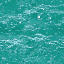
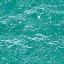
Added flipbooks for water in MH

diff --git a/levels/mh/flipbook.inc.c b/levels/mh/flipbook.inc.c
@@ -1,0 +1,55 @@
+#include "flipbook.h"
+
+static ALIGNED8 u8 mh_waters_ci4[] = {
+    #include "levels/mh/tx_sea001.ci4.inc.c"
+    #include "levels/mh/tx_sea002.ci4.inc.c"
+    #include "levels/mh/tx_sea003.ci4.inc.c"
+    #include "levels/mh/tx_sea004.ci4.inc.c"
+    #include "levels/mh/tx_sea005.ci4.inc.c"
+    #include "levels/mh/tx_sea006.ci4.inc.c"
+    #include "levels/mh/tx_sea007.ci4.inc.c"
+    #include "levels/mh/tx_sea008.ci4.inc.c"
+    #include "levels/mh/tx_sea009.ci4.inc.c"
+    #include "levels/mh/tx_sea010.ci4.inc.c"
+    #include "levels/mh/tx_sea011.ci4.inc.c"
+    #include "levels/mh/tx_sea012.ci4.inc.c"
+    #include "levels/mh/tx_sea013.ci4.inc.c"
+    #include "levels/mh/tx_sea014.ci4.inc.c"
+    #include "levels/mh/tx_sea015.ci4.inc.c"
+    #include "levels/mh/tx_sea016.ci4.inc.c"
+    #include "levels/mh/tx_sea017.ci4.inc.c"
+    #include "levels/mh/tx_sea018.ci4.inc.c"
+    #include "levels/mh/tx_sea019.ci4.inc.c"
+    #include "levels/mh/tx_sea020.ci4.inc.c"
+};
+
+static ALIGNED8 u8 mh_waters_pal[] = {
+    #include "levels/mh/tx_sea001.ci4.pal"
+    #include "levels/mh/tx_sea002.ci4.pal"
+    #include "levels/mh/tx_sea003.ci4.pal"
+    #include "levels/mh/tx_sea004.ci4.pal"
+    #include "levels/mh/tx_sea005.ci4.pal"
+    #include "levels/mh/tx_sea006.ci4.pal"
+    #include "levels/mh/tx_sea007.ci4.pal"
+    #include "levels/mh/tx_sea008.ci4.pal"
+    #include "levels/mh/tx_sea009.ci4.pal"
+    #include "levels/mh/tx_sea010.ci4.pal"
+    #include "levels/mh/tx_sea011.ci4.pal"
+    #include "levels/mh/tx_sea012.ci4.pal"
+    #include "levels/mh/tx_sea013.ci4.pal"
+    #include "levels/mh/tx_sea014.ci4.pal"
+    #include "levels/mh/tx_sea015.ci4.pal"
+    #include "levels/mh/tx_sea016.ci4.pal"
+    #include "levels/mh/tx_sea017.ci4.pal"
+    #include "levels/mh/tx_sea018.ci4.pal"
+    #include "levels/mh/tx_sea019.ci4.pal"
+    #include "levels/mh/tx_sea020.ci4.pal"
+};
+
+static struct FlipbookData flipbooks_xlu[] = {
+    { LVL_BATCH_LAYER_TRANSPARENT_MH_DL_TX_SEA001_CI4_PAL_RGBA16, 20, 2, 0, 0, mh_waters_ci4, mh_waters_pal },
+};
+
+const struct FlipbookLayer mh_flipbooks[LAYER_COUNT] = {
+    [ LAYER_TRANSPARENT ] = FLIPBOOK_LAYER_DECL(flipbooks_xlu),
+};

diff --git a/src/game/rendering_graph_node.c b/src/game/rendering_graph_node.c
@@ -321,17 +321,23 @@ static void apply_flipbooks(struct MasterLayer* masterLayer)
         const struct FlipbookData* flipData = &flipbooks->data[i];
         struct FlipbookDls* flipDls = &flipbooks->dls[i];
 
-        // switch dl frames and patch the display list
         int frame = (gGlobalTimer / flipData->frames) % flipData->count;
         u8* startDl = (u8*) flipDls->startDls[gGlobalTimer & 1];
-        *(u8**) &startDl[flipDls->offCI4] = flipData->ci4s + frame * 2048;
-        *(u8**) &startDl[flipDls->offPal] = flipData->pals + frame * 32;
+
+        // switch dl frames and patch the display list
+        if (flipData->count)
+        {
+            *(u8**) &startDl[flipDls->offCI4] = flipData->ci4s + frame * 2048;
+            *(u8**) &startDl[flipDls->offPal] = flipData->pals + frame * 32;
+        }
 
         SetTileSize* tile = (SetTileSize*) &startDl[flipDls->offTile];
         // tile->u += gGlobalTimer * flipData->tileScrollX;
         // tile->v += gGlobalTimer * flipData->tileScrollY;
-        tile->t = gGlobalTimer * flipData->tileScrollX;
-        tile->s = gGlobalTimer * flipData->tileScrollY;
+        if (flipData->tileScrollX)
+            tile->t = gGlobalTimer * flipData->tileScrollX;
+        if (flipData->tileScrollY)
+            tile->s = gGlobalTimer * flipData->tileScrollY;
 
         // this bending constness rules a bit but trust me, it's fine
         struct BatchDisplayLists* batchDLs = (struct BatchDisplayLists*) masterLayer->course->batchDLs;

diff --git a/levels/mh/visual/header_lvl.inc.h b/levels/mh/visual/header_lvl.inc.h
@@ -2630,3 +2630,4 @@ extern struct BatchLevelDisplayLists batch_lvl_dls_mh[LAYER_COUNT];
 #define mh_dl_object_006F9EF0_003_mesh_layer_6 mh_dl_object_006F9EF0_mesh_layer_6
 #define mh_dl_object_006F9EF0_004_mesh_layer_1 mh_dl_object_006F9EF0_mesh_layer_1
 #define mh_dl_object_006F9EF0_004_mesh_layer_6 mh_dl_object_006F9EF0_mesh_layer_6
+extern const struct FlipbookLayer mh_flipbooks[LAYER_COUNT];

diff --git a/levels/mh/visual/geo_lvl.inc.c b/levels/mh/visual/geo_lvl.inc.c
@@ -1,7 +1,7 @@
 #include "src/game/envfx_snow.h"
 
 const GeoLayout mh_area_1_geo[] = {
-	GEO_BATCH_NODE_START(batch_lvl_dls_mh),
+	GEO_BATCH_NODE_START_WITH_FLIPBOOK(batch_lvl_dls_mh, mh_flipbooks),
 	GEO_OPEN_NODE(),
 		GEO_ASM(0, geo_render_backdrop),
 		GEO_LVL_BATCH_TRANSLATE_NODE(LAYER_OPAQUE, (f32)53350.0, (f32)23080.0, (f32)-102170.0, mh_dl_0000_object_00BC4AC4_mesh_layer_1),

diff --git a/src/game/behaviors/aglab_shutter.inc.c b/src/game/behaviors/aglab_shutter.inc.c
@@ -5,8 +5,8 @@
 struct ShutterConfig
 {
     int modelBase;
-    void* collisionLeft;
-    void* collisionRight;
+    const void* collisionLeft;
+    const void* collisionRight;
 };
 
 extern const Collision cg_shutter_left_collision[];

diff --git a/levels/mh/leveldata.c b/levels/mh/leveldata.c
@@ -130,5 +130,6 @@ const SpringLinkDesc spring_links_mh[] = {
 #endif
 
 #include "levels/mh/visual/model_lvl.inc.c"
+#include "levels/mh/flipbook.inc.c"
 
 #include "levels/mh/mh_skybox/model.inc.c"

diff --git a/src/game/behaviors/aglab_ce.inc.c b/src/game/behaviors/aglab_ce.inc.c
@@ -1,3 +1,5 @@
+#include "game/print.h"
+
 #define sCeTimerDeadline (*((u32*) &aglabGlobalScratch[0]))
 #define sCeTimerLine ((char*) &aglabGlobalScratch[1])
 
